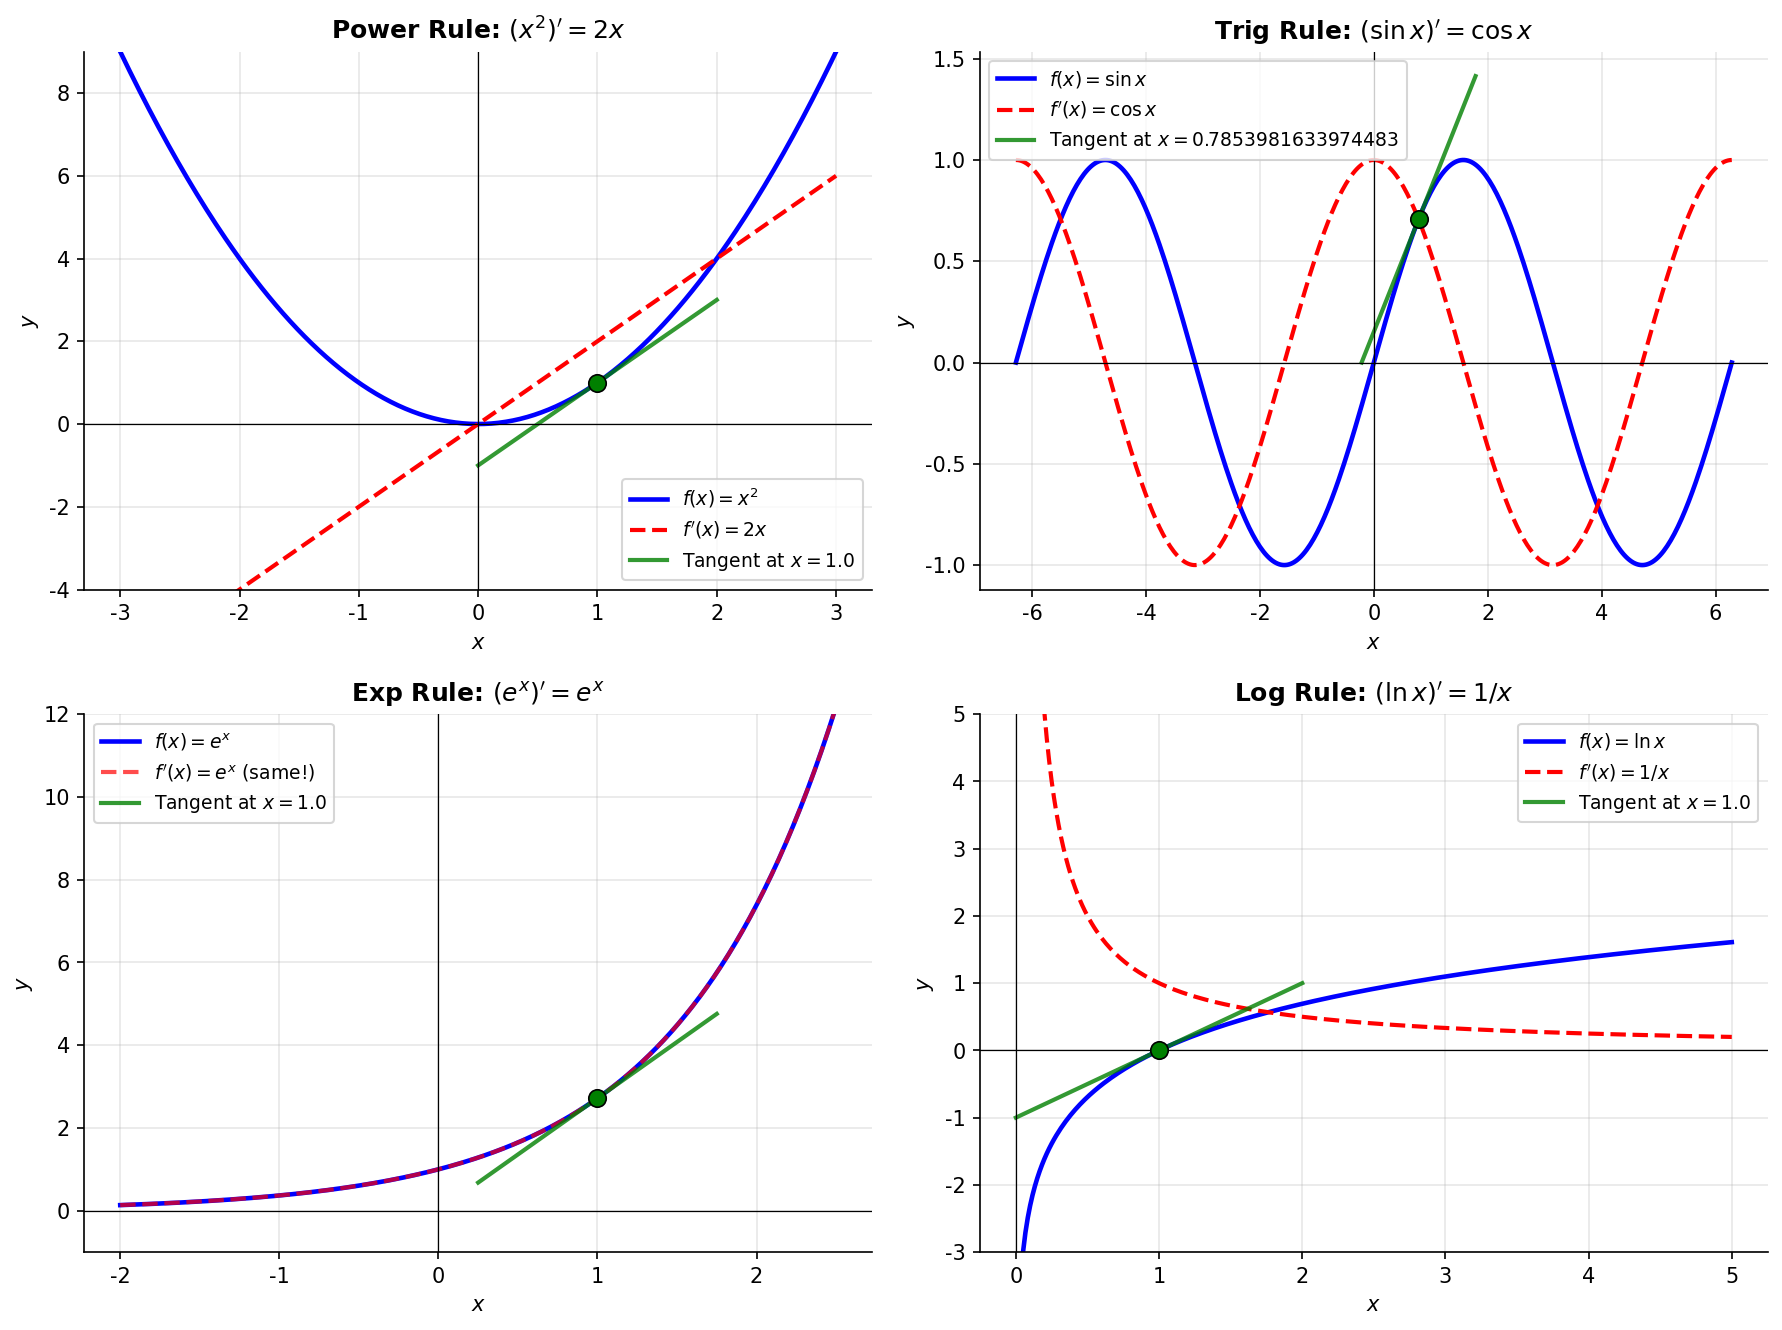
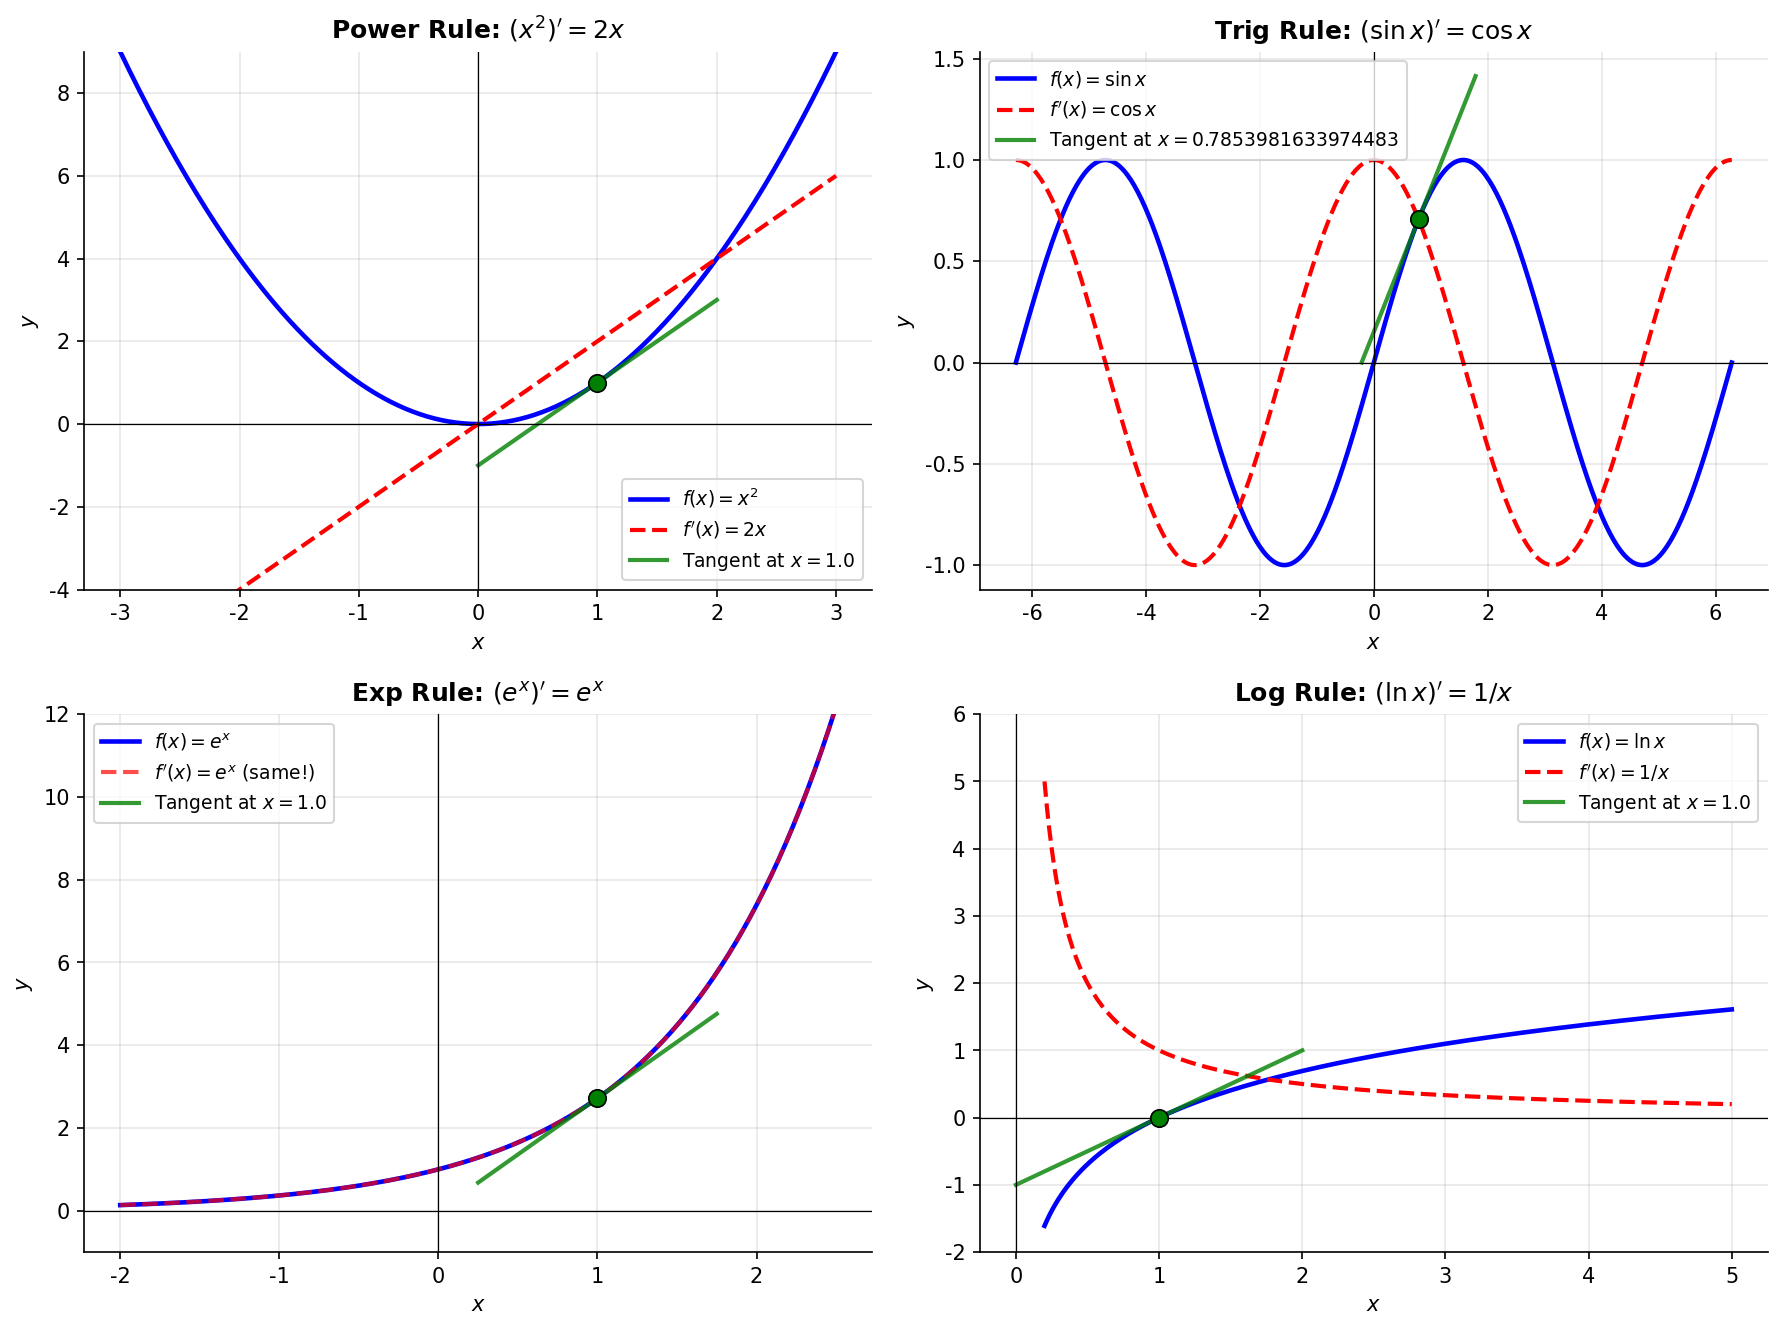
[00/数学基础] 修复：代码审查发现的8个脚本问题（重复标签、未使用变量/import、ylim裁剪、WIP注释）
Agent-Logs-Url: https://github.com/qq940500529/Artificial_Intelligence_Tutorial_CN/sessions/72a1ee1a-3685-4a42-b0ea-6d78d10c6084

Changed region(s): [[0.5556, 0.709, 0.9877, 0.9248], [0.5864, 0.5857, 0.6173, 0.709], [0.6173, 0.709, 0.6481, 0.7398]]

diff --git a/00_高中复习/01_数学基础/07_解析几何/04_轨迹问题/code/plot_locus_curves.py b/00_高中复习/01_数学基础/07_解析几何/04_轨迹问题/code/plot_locus_curves.py
@@ -49,9 +49,6 @@ ax.text(px + 0.15, py + 0.25, '$P$', fontsize=12, color='red',
 ax.plot([-c, px], [0, py], 'r--', linewidth=1.5, alpha=0.7)
 ax.plot([c, px], [0, py], 'r--', linewidth=1.5, alpha=0.7)
 
-# Labels
-d1 = np.sqrt((px + c)**2 + py**2)
-d2 = np.sqrt((px - c)**2 + py**2)
 ax.text(-0.3, 1.8, f'$|PF_1|+|PF_2|=2a={2*a}$', fontsize=10,
         ha='center', bbox=dict(facecolor='lightyellow', alpha=0.8,
                                 edgecolor='gray', boxstyle='round'))
@@ -186,16 +183,11 @@ A = np.array([-2, 0])
 B = np.array([2, 0])
 k = 2  # |PA|/|PB| = k
 
-# Apollonius circle: center and radius
-# Center: ((-k^2*B[0] + A[0])/(1-k^2), 0) when on x-axis
-# For |PA|/|PB| = k, locus is circle with:
-# center = (A + k^2 * B) / (k^2 - 1) ... let me derive properly
-# |PA|^2 = k^2 |PB|^2
-# (x+2)^2 + y^2 = 4[(x-2)^2 + y^2]
-# x^2+4x+4+y^2 = 4x^2-16x+16+4y^2
-# 3x^2+3y^2-20x+12=0
-# x^2+y^2-(20/3)x+4=0
-# (x-10/3)^2 + y^2 = 100/9 - 4 = 64/9
+# Apollonius circle for |PA|/|PB| = k with A(-2,0), B(2,0), k=2
+# From |PA|^2 = k^2 |PB|^2:
+#   (x+2)^2 + y^2 = 4[(x-2)^2 + y^2]
+#   => 3x^2 + 3y^2 - 20x + 12 = 0
+#   => (x - 10/3)^2 + y^2 = 64/9
 center_x = 10 / 3
 radius = 8 / 3
 
@@ -225,9 +217,6 @@ ax.text(px_a + 0.15, py_a + 0.25, '$P$', fontsize=12, color='red',
 ax.plot([A[0], px_a], [A[1], py_a], 'r--', linewidth=1.5, alpha=0.7)
 ax.plot([B[0], px_a], [B[1], py_a], 'r--', linewidth=1.5, alpha=0.7)
 
-# Verify and show ratio
-dist_PA = np.sqrt((px_a - A[0])**2 + (py_a - A[1])**2)
-dist_PB = np.sqrt((px_a - B[0])**2 + (py_a - B[1])**2)
 ax.text(center_x, -3.0, f'$|PA|/|PB|=k={k}$', fontsize=10, ha='center',
         bbox=dict(facecolor='lightyellow', alpha=0.8, edgecolor='gray',
                   boxstyle='round'))

diff --git a/00_高中复习/01_数学基础/01_代数与方程/04_幂运算与根式/code/plot_power_growth.py b/00_高中复习/01_数学基础/01_代数与方程/04_幂运算与根式/code/plot_power_growth.py
@@ -17,8 +17,6 @@ plt.rcParams['font.sans-serif'] = ['DejaVu Sans']
 plt.rcParams['axes.unicode_minus'] = False
 
 x = np.linspace(0, 4, 500)
-# Avoid division warnings at x=0 for roots
-x_pos = np.where(x > 0, x, np.nan)
 
 fig, ax = plt.subplots(figsize=(8, 6))
 
@@ -30,9 +28,9 @@ ax.plot(x, x ** 2, color='#2980B9', linewidth=2.5, label='$y = x^2$', zorder=3)
 ax.plot(x, x ** 3, color='#E74C3C', linewidth=2.5, label='$y = x^3$', zorder=3)
 
 # Root functions
-ax.plot(x_pos, np.sqrt(x_pos), color='#27AE60', linewidth=2.5,
+ax.plot(x, np.sqrt(x), color='#27AE60', linewidth=2.5,
         label='$y = \\sqrt{x}$', zorder=3)
-ax.plot(x_pos, np.cbrt(x_pos), color='#8E44AD', linewidth=2.5,
+ax.plot(x, np.cbrt(x), color='#8E44AD', linewidth=2.5,
         label='$y = \\sqrt[3]{x}$', zorder=3)
 
 # Mark intersection at (1, 1)

diff --git a/00_高中复习/01_数学基础/12_导数初步/03_复合函数求导/code/plot_chain_rule.py b/00_高中复习/01_数学基础/12_导数初步/03_复合函数求导/code/plot_chain_rule.py
@@ -18,7 +18,6 @@ plt.rcParams['axes.unicode_minus'] = False
 
 x = np.linspace(-2, 2, 500)
 u = x ** 2                    # inner function
-y_outer = np.sin(np.linspace(0, 4, 500))  # outer over u-range
 y_comp = np.sin(x ** 2)       # composite
 dy_dx = np.cos(x ** 2) * 2 * x  # derivative
 
@@ -84,7 +83,7 @@ ax.set_title('Composite: $y = \\sin(x^2)$', fontsize=13, fontweight='bold', pad=
 ax.set_xlabel('$x$', fontsize=12)
 ax.set_ylabel('$y$', fontsize=12)
 ax.legend(fontsize=9.5, loc='lower left')
-ax.set_ylim(-2.5, 2.5)
+ax.set_ylim(-3, 3)
 ax.spines['top'].set_visible(False)
 ax.spines['right'].set_visible(False)
 ax.grid(alpha=0.3)

diff --git a/00_高中复习/01_数学基础/12_导数初步/02_基本求导法则/code/plot_derivative_rules.py b/00_高中复习/01_数学基础/12_导数初步/02_基本求导法则/code/plot_derivative_rules.py
@@ -78,7 +78,7 @@ style_ax(ax)
 
 # ---------- 4. f(x)=ln(x), f'(x)=1/x ----------
 ax = axes[1, 1]
-x = np.linspace(0.05, 5, 300)
+x = np.linspace(0.2, 5, 300)
 y = np.log(x)
 dy = 1.0 / x
 ax.plot(x, y, 'b-', linewidth=2.2, label=r"$f(x)=\ln x$")
@@ -88,7 +88,7 @@ draw_tangent(ax, x0, np.log(x0), 1.0 / x0, length=2.0)
 ax.set_title(r"Log Rule: $(\ln x)' = 1/x$", fontsize=12, fontweight='bold')
 ax.set_xlabel('$x$', fontsize=10)
 ax.set_ylabel('$y$', fontsize=10)
-ax.set_ylim(-3, 5)
+ax.set_ylim(-2, 6)
 style_ax(ax)
 
 plt.tight_layout()

diff --git a/00_高中复习/01_数学基础/10_统计基础/02_方差与标准差/code/plot_dispersion.py b/00_高中复习/01_数学基础/10_统计基础/02_方差与标准差/code/plot_dispersion.py
@@ -101,10 +101,6 @@ for sigma, color, label in zip(sigma_vals, colors, labels):
 
 # Mean line
 ax.axvline(mean, color='black', linewidth=1.5, linestyle='--', alpha=0.6)
-ax.text(mean + 0.5, ax.get_ylim()[1] * 0.1 if ax.get_ylim()[1] > 0
-        else 0.01, f'$\\mu={mean}$', fontsize=11, color='black')
-
-# Recalculate after plotting to get proper ylim
 ax.set_xlim(50, 110)
 y_max = (1 / (3 * np.sqrt(2 * np.pi)))
 ax.text(mean + 0.5, y_max * 0.85, f'$\\mu={mean}$', fontsize=11,

diff --git a/00_高中复习/01_数学基础/07_解析几何/05_参数方程初步/code/plot_parametric_curves.py b/00_高中复习/01_数学基础/07_解析几何/05_参数方程初步/code/plot_parametric_curves.py
@@ -7,7 +7,6 @@ plot_parametric_curves.py
 import os
 import numpy as np
 import matplotlib.pyplot as plt
-import matplotlib.patches as mpatches
 
 plt.rcParams['font.sans-serif'] = ['DejaVu Sans']
 plt.rcParams['axes.unicode_minus'] = False

diff --git a/00_高中复习/01_数学基础/13_立体几何与空间想象/04_表面积与体积/code/plot_surface_volume.py b/00_高中复习/01_数学基础/13_立体几何与空间想象/04_表面积与体积/code/plot_surface_volume.py
@@ -5,7 +5,6 @@
 import os
 import numpy as np
 import matplotlib.pyplot as plt
-from mpl_toolkits.mplot3d import Axes3D
 
 plt.rcParams['font.sans-serif'] = ['DejaVu Sans']
 plt.rcParams['axes.unicode_minus'] = False

diff --git a/00_高中复习/01_数学基础/11_集合与逻辑/03_充分条件与必要条件/code/plot_conditions.py b/00_高中复习/01_数学基础/11_集合与逻辑/03_充分条件与必要条件/code/plot_conditions.py
@@ -4,7 +4,6 @@
 
 import os
 import matplotlib.pyplot as plt
-import matplotlib.patches as mpatches
 
 # ---------- 输出路径 ----------
 script_dir = os.path.dirname(os.path.abspath(__file__))
